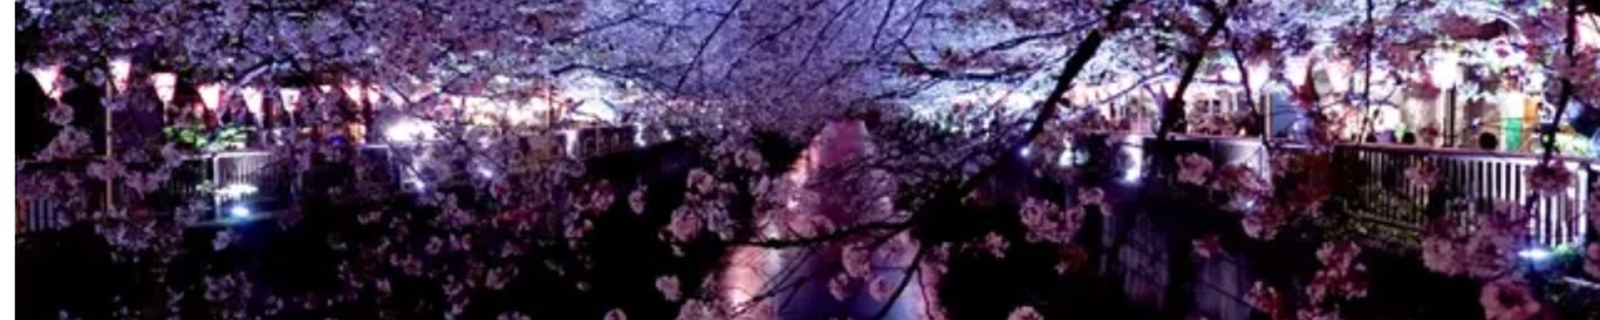
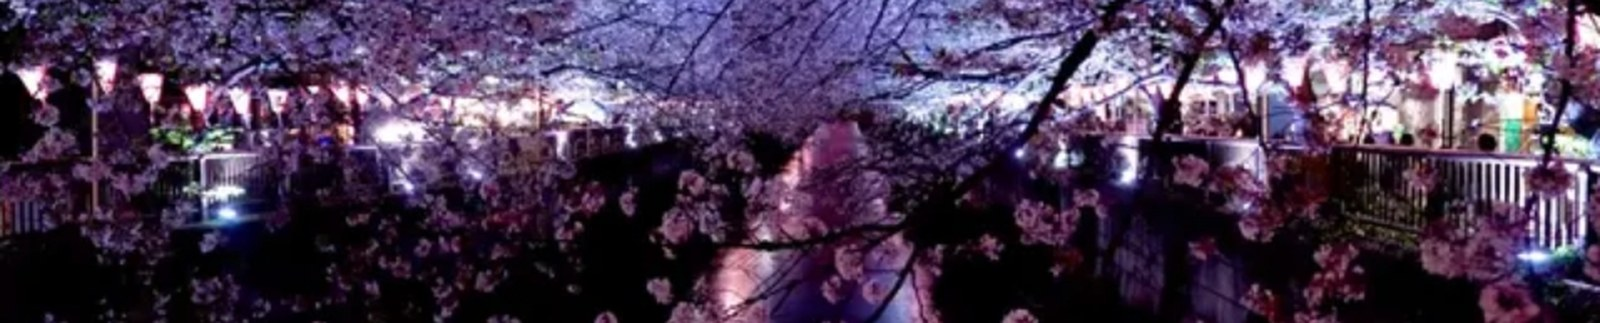
MAP 배너의 노을·햇빛 층 제거(야경 사진 그대로), 벚꽃 사진 흰 가장자리 잘라냄

diff --git a/YB/map.html b/YB/map.html
@@ -6,10 +6,10 @@
 <meta http-equiv="Cache-Control" content="no-cache, must-revalidate">
 <title>캠퍼스 지도 | 도쿄대학 한국인학생회</title>
 <link href="https://fonts.googleapis.com/css2?family=Do+Hyeon&family=Noto+Sans+KR:wght@300;400;500;700&family=Noto+Serif+KR:wght@400;600&display=swap" rel="stylesheet">
-<link rel="stylesheet" href="/board/board.css?v=32">
+<link rel="stylesheet" href="/board/board.css?v=35">
 <link rel="stylesheet" href="https://unpkg.com/leaflet@1.9.4/dist/leaflet.css"
       integrity="sha256-p4NxAoJBhIIN+hmNHrzRCf9tD/miZyoHS5obTRR9BMY=" crossorigin="">
-<link rel="stylesheet" href="/common/map.css?v=34">
+<link rel="stylesheet" href="/common/map.css?v=35">
 <style>
   @font-face{
     font-family:"Vitro Core";
@@ -21,20 +21,8 @@
   :root{ --map-accent:#1e5230; --map-line:#cfe3d4; --map-soft:#e4f3e7; --map-tip:#f7fbf7; }
   .wrap{max-width:1180px;margin:0 auto;padding:0 24px 80px;}
   .topbar .inner,.mhead .inner,.banner .binner{max-width:1180px;padding-left:24px;padding-right:24px;}
-  /* 배너 — 노을 하늘 (푸른 하늘에 분홍 구름결, 지평선 가까이 주황빛) */
-  .banner{position:relative;overflow:hidden;padding-bottom:0;
-    background:
-      radial-gradient(58% 11px at 28% 30%, rgba(232,178,150,.50), transparent 72%),
-      radial-gradient(42% 8px  at 55% 24%, rgba(220,170,150,.42), transparent 72%),
-      radial-gradient(48% 9px  at 74% 36%, rgba(236,190,160,.45), transparent 72%),
-      radial-gradient(38% 7px  at 18% 44%, rgba(228,196,172,.42), transparent 72%),
-      radial-gradient(52% 10px at 62% 47%, rgba(232,184,150,.40), transparent 72%),
-      radial-gradient(34% 6px  at 40% 55%, rgba(234,202,176,.38), transparent 74%),
-      linear-gradient(180deg,#0d2440 0%,#14395c 15%,#1f5a76 30%,#316f88 44%,#5d8f9c 56%,#93a396 66%,#c2a68c 76%,#e0aa78 85%,#f2ca97 93%,#fae4bf 100%);}
-  /* 지평선 가까이 지는 해 */
-  .banner::before{content:"";position:absolute;left:66%;bottom:52px;width:210px;height:120px;
-    transform:translateX(-50%);z-index:1;
-    background:radial-gradient(ellipse at center,rgba(255,242,212,.92) 0%,rgba(248,196,132,.38) 32%,transparent 70%);}
+  /* 배너 — 도쿄 야경 사진 (board.css 에서 지정) */
+  .banner{position:relative;overflow:hidden;padding-bottom:0;}
   .banner .binner{position:relative;z-index:3;max-width:1180px;margin:0 auto;
     padding:26px 24px 0;}
   .banner .en{font-family:Georgia,serif;font-style:italic;font-size:13px;letter-spacing:.14em;
@@ -51,8 +39,6 @@
   .ssword{flex:none;font-family:Georgia,serif;font-size:22px;font-weight:700;
     letter-spacing:.32em;line-height:1;padding-bottom:1px;}
   @media (max-width:680px){
-    .banner::before{left:62%;bottom:58px;width:130px;height:130px;}
-    .banner::after{bottom:60px;height:44px;}
     .banner .binner{padding:20px 16px 0;}
     .banner h1{font-size:21px;}
     .skyrow{padding:0 16px 12px;gap:10px;margin-top:-4px;}
@@ -148,7 +134,7 @@
         integrity="sha256-20nQCchB9co0qIjJZRGuk2/Z9VM+kNiyxNV1lvTlZBo=" crossorigin=""></script>
 <script type="module">
 import { applyNav } from "/board/nav.js?v=3";
-import { initMap } from "/common/map.js?v=34";
+import { initMap } from "/common/map.js?v=35";
 applyNav("YB", "캠퍼스 지도 | 도쿄대학 한국인학생회");
 initMap("YB");
 </script>

diff --git a/OB/map.html b/OB/map.html
@@ -6,10 +6,10 @@
 <meta http-equiv="Cache-Control" content="no-cache, must-revalidate">
 <title>캠퍼스 지도 | 재한 도쿄대학 총동문회</title>
 <link href="https://fonts.googleapis.com/css2?family=Noto+Sans+KR:wght@300;400;500;700&family=Noto+Serif+KR:wght@400;600&display=swap" rel="stylesheet">
-<link rel="stylesheet" href="/board/board.css?v=32">
+<link rel="stylesheet" href="/board/board.css?v=35">
 <link rel="stylesheet" href="https://unpkg.com/leaflet@1.9.4/dist/leaflet.css"
       integrity="sha256-p4NxAoJBhIIN+hmNHrzRCf9tD/miZyoHS5obTRR9BMY=" crossorigin="">
-<link rel="stylesheet" href="/common/map.css?v=34">
+<link rel="stylesheet" href="/common/map.css?v=35">
 <style>
   :root{ --map-accent:#8a6d2b; --map-line:#e6dfcb; --map-soft:#fdf1d3; --map-tip:#faf7ef; }
   .wrap{max-width:1180px;margin:0 auto;padding:0 24px 80px;}
@@ -141,7 +141,7 @@
         integrity="sha256-20nQCchB9co0qIjJZRGuk2/Z9VM+kNiyxNV1lvTlZBo=" crossorigin=""></script>
 <script type="module">
 import { applyNav } from "/board/nav.js?v=3";
-import { initMap } from "/common/map.js?v=34";
+import { initMap } from "/common/map.js?v=35";
 applyNav("OB", "캠퍼스 지도 | 재한 도쿄대학 총동문회");
 initMap("OB");
 </script>

diff --git a/YB/gallery.html b/YB/gallery.html
@@ -6,7 +6,7 @@
 <meta http-equiv="Cache-Control" content="no-cache, must-revalidate">
 <title>갤러리 | 도쿄대학 한국인학생회</title>
 <link href="https://fonts.googleapis.com/css2?family=Noto+Sans+KR:wght@300;400;500;700&family=Noto+Serif+KR:wght@400;600&display=swap" rel="stylesheet">
-<link rel="stylesheet" href="/board/board.css?v=12">
+<link rel="stylesheet" href="/board/board.css?v=35">
 <style>
   .topbar .inner,.mhead .inner,.banner .binner{max-width:1180px;padding-left:24px;padding-right:24px;}
   .gwrap{max-width:1180px;margin:0 auto;padding:0 24px 80px;}
